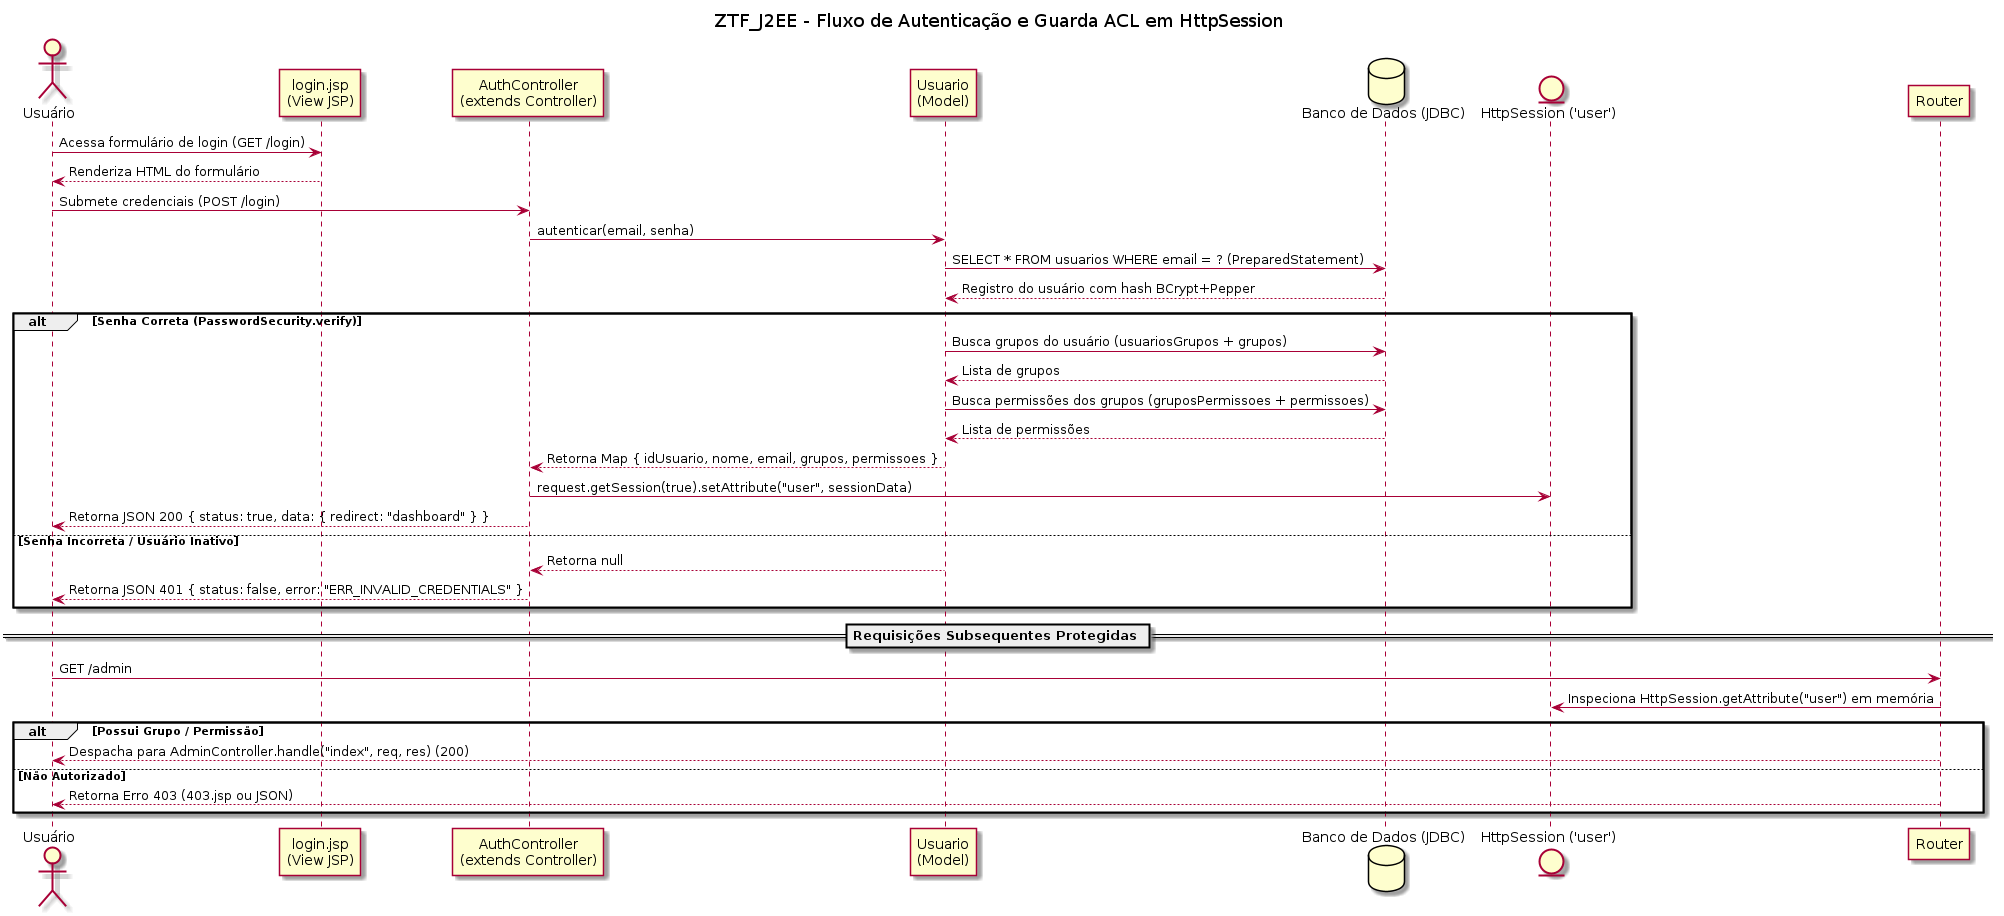
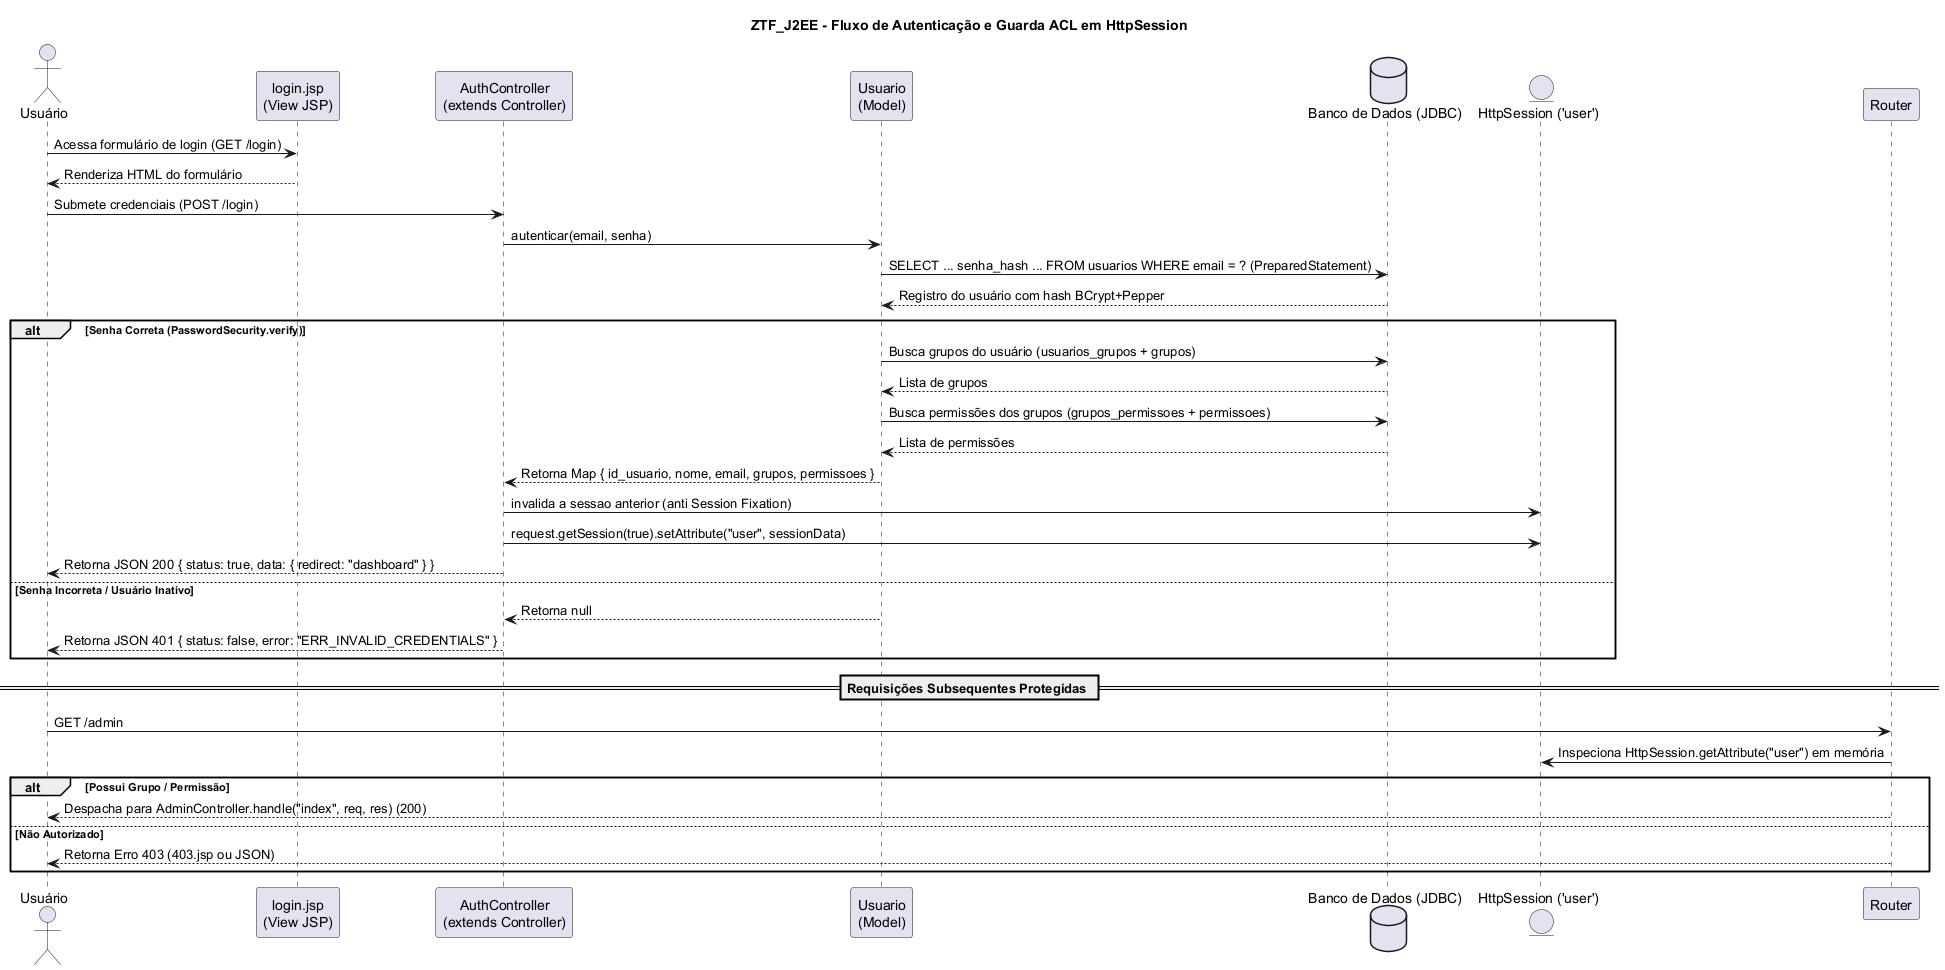
docs: atualiza PlantUML, manual e README para recuperacao por token e banco hospital
- Mail_Recovery.puml reescrito para o fluxo com token; Session_ACL com
  invalidacao da sessao; DBQuery/Classes_Map com openConnection, RateLimiter,
  RecuperacaoSenha e novos metodos; novo Banco_ER.puml
- PNGs regenerados (PlantUML 1.2024.7, layout smetana); 10 .puml validados
- manual.html/MANUAL.md: descricao do AuthController e da recuperacao
- README: config.local.json, Maven, testes e validacao dos diagramas
- FASE1-AUDITORIA: correcoes, novos achados e situacao de cada item

diff --git a/src/main/webapp/manual.html b/src/main/webapp/manual.html
@@ -555,9 +555,9 @@
 
                 <div class="diagram-card">
                     <span class="badge bg-warning text-dark mb-2">Diagrama 9 &bull; Mail_Recovery.puml (Clique para Ampliar)</span>
-                    <h5 class="fw-bold text-dark mb-3">Fluxo de Recuperação de Senha com CodeGenerator CSPRNG e Jakarta Mail</h5>
+                    <h5 class="fw-bold text-dark mb-3">Recuperação de Senha por Token de Uso Único (link por e-mail)</h5>
                     <img src="assets/images/diagrams/Mail_Recovery.png"
-                         alt="Fluxo de Recuperação de Senha com JavaMail"
+                         alt="Recuperação de senha por token de uso único"
                          onclick="openDiagramModal(this.src, this.alt)">
                 </div>
             </section>
@@ -737,9 +737,9 @@ JsonResponse.error(response, 400, "ERR_VALIDACAO", "O campo e-mail é obrigatór
                 </div>
 
                 <div id="cls-authcontroller" class="lesson-card pkg-ctrl">
-                    <h5>Classe 18: <code>controllers.AuthController</code> <small class="text-muted">(@WebServlet: /login, /registro, /recuperar-senha, /logout)</small></h5>
+                    <h5>Classe 18: <code>controllers.AuthController</code> <small class="text-muted">(@WebServlet: /login, /cadastro, /recuperar-senha, /redefinir-senha, /logout)</small></h5>
                     <p class="mb-0">
-                        <strong>Para que serve:</strong> Controla a exibição da tela de login (<code>loginPage</code>), a validação de credenciais com criação da <code>HttpSession</code> e redirecionamento por perfil (<code>loginAuth</code>), o auto-cadastro com envio de senha temporária por e-mail (<code>registerAuth</code>), a recuperação de senha (<code>recuperarSenha</code>) e o encerramento seguro da sessão (<code>logout</code>).
+                        <strong>Para que serve:</strong> Controla a exibição da tela de login (<code>loginPage</code>), a validação de credenciais com criação da <code>HttpSession</code> e redirecionamento por perfil (<code>loginAuth</code>), o auto-cadastro com envio de senha temporária por e-mail (<code>registerAuth</code>), a recuperação de senha por token de uso único enviado por e-mail (<code>recuperarSenha</code>, <code>redefinirSenhaPage</code> e <code>redefinirSenha</code>, com limite de tentativas e resposta genérica que não revela se o e-mail existe) e o encerramento seguro da sessão (<code>logout</code>). No login, a sessão anterior é invalidada para evitar <em>Session Fixation</em>.
                     </p>
                 </div>
 

diff --git a/README.md b/README.md
@@ -39,3 +39,30 @@ javac --release 21 -encoding UTF-8 \
 java -cp "build/classes:src/main/webapp/WEB-INF/lib/*:/home/zait/PortableApps/apache-tomcat-9.0.121/lib/servlet-api.jar" \
   tests.RunAllTests
 ```
+
+---
+
+### Configuração local (credenciais por máquina)
+O `config.json` versionado não deve receber senhas reais. Copie
+`src/main/webapp/WEB-INF/etc/config.local.example.json` para `config.local.json` (mesma pasta,
+fora do git) e ajuste banco, `app.url` e SMTP. As chaves desse arquivo sobrepõem as do `config.json`.
+O banco padrão chama-se `hospital` e é criado automaticamente pelo `DatabaseProvisioner`.
+
+### Build e testes com Maven (Eclipse e IntelliJ importam o mesmo `pom.xml`)
+```bash
+mvn test        # testes JUnit 5 (unitários + integração; os de banco são ignorados se o MySQL não responder)
+mvn package     # gera target/hospital-case-manager.war (sem config.local.json, logs e uploads)
+```
+
+A suíte original continua disponível (após `mvn compile`):
+```bash
+java -cp "target/classes;src/main/webapp/WEB-INF/lib/*;<TOMCAT>/lib/servlet-api.jar" tests.RunAllTests
+```
+(no Linux/macOS, troque `;` por `:`)
+
+### Validação dos diagramas PlantUML
+```bash
+mvn dependency:copy -Dartifact=net.sourceforge.plantuml:plantuml:1.2024.7 -DoutputDirectory=target/tools
+java -jar target/tools/plantuml-1.2024.7.jar -syntax < src/main/webapp/WEB-INF/documentation/Banco_ER.puml
+java -jar target/tools/plantuml-1.2024.7.jar -Playout=smetana -tpng -o ../../assets/images/diagrams src/main/webapp/WEB-INF/documentation/*.puml
+```
